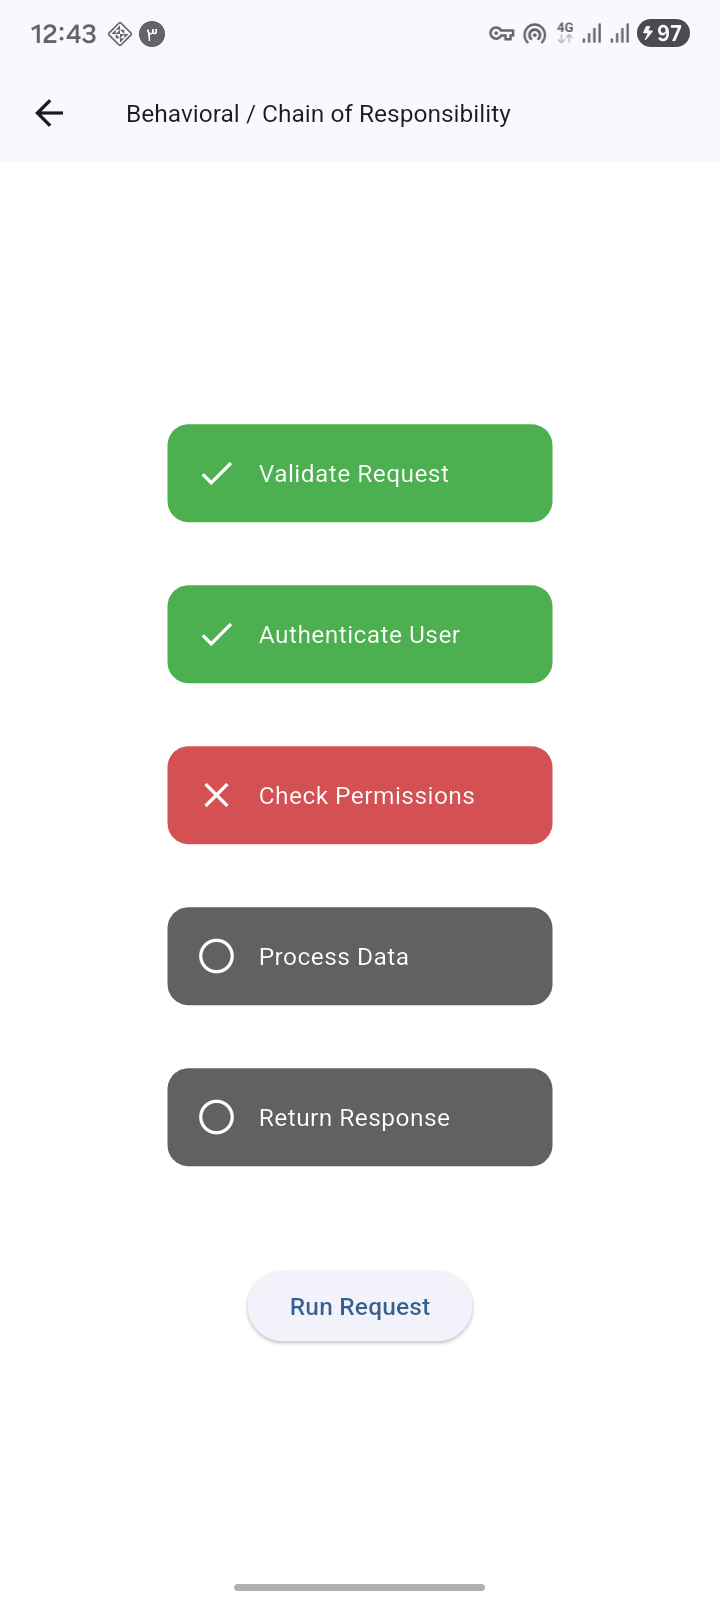
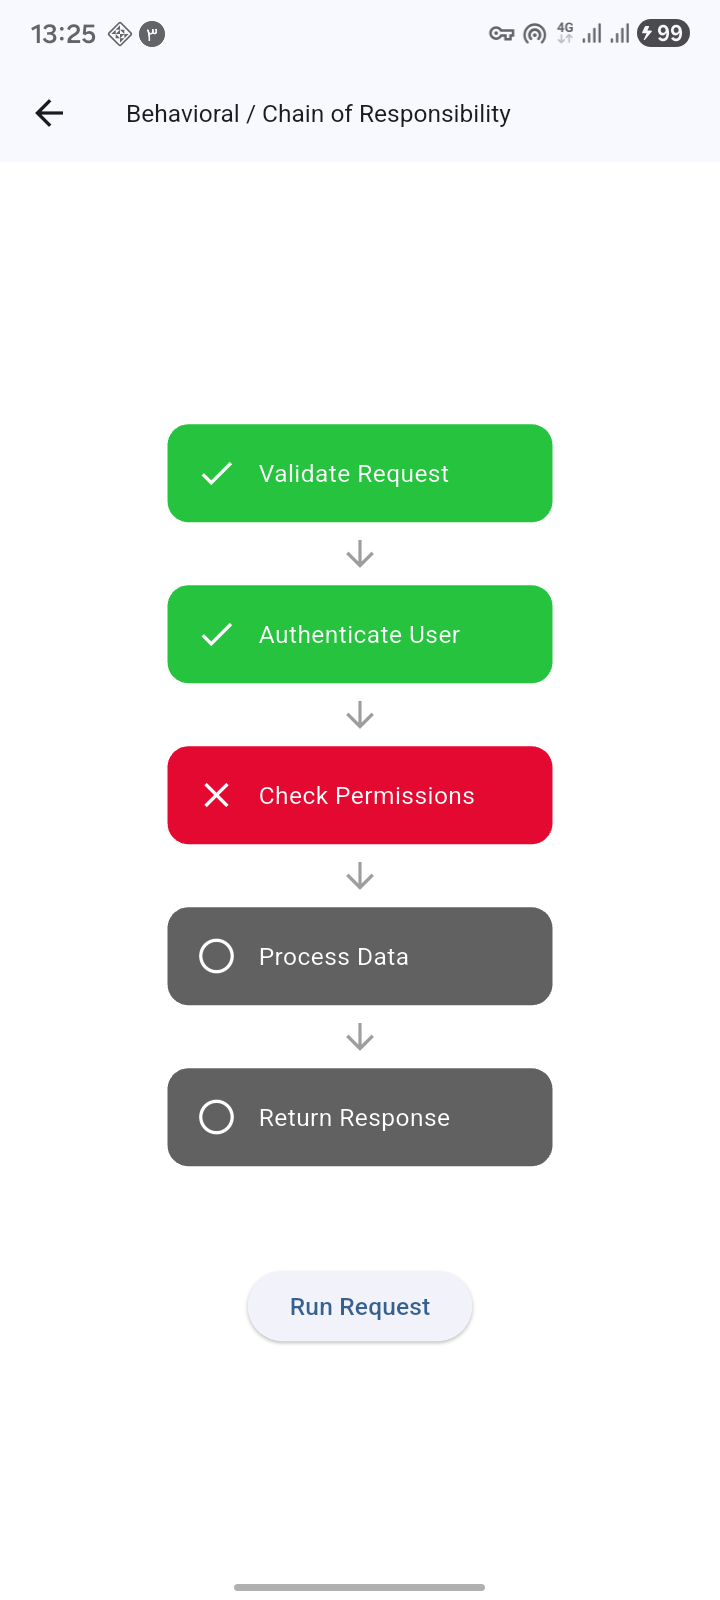
/read me file updated./

diff --git a/lib/behavioral/chain_of_responsibility/implementation.dart b/lib/behavioral/chain_of_responsibility/implementation.dart
@@ -74,13 +74,13 @@ class _ScreenState extends State<Screen> {
 
     switch (status) {
       case "running":
-        return Colors.blue;
+        return Color(0xff18bde8);
 
       case "success":
-        return Colors.green;
+        return Color(0xff25c33e);
 
       case "fail":
-        return Colors.red;
+        return Color(0xffe40931);
 
       default:
         return Colors.grey.shade700;
@@ -161,7 +161,7 @@ class _ScreenState extends State<Screen> {
                         if (index != steps.length - 1)
                           const Icon(
                             Icons.arrow_downward,
-                            color: Colors.white,
+                            color: Colors.black38,
                           ),
                       ],
                     );

diff --git a/README.md b/README.md
@@ -1,26 +1,28 @@
 Design Patterns Visual Implementation
 
+
+
 This project offers a visual and interactive exploration of common software design patterns .
-
-
 
 
 
 
 Project Structure
 
+```text
 pattern_name/
 ├── pattern.dart
 └── implementation.dart
+```
 
 
-📌 Explanation:
+Explanation:
 pattern.dart
 Defines a generic and asynchronous class.
 
 implementation.dart
-Contains a runnable Flutter example demonstrating how the pattern works in practice.
+demonstrating how the pattern works in practice.
 
 
 
-![App Screenshot](assets/images/chain.png)
+<img src="assets/images/chain.png" width="350" height="600" />